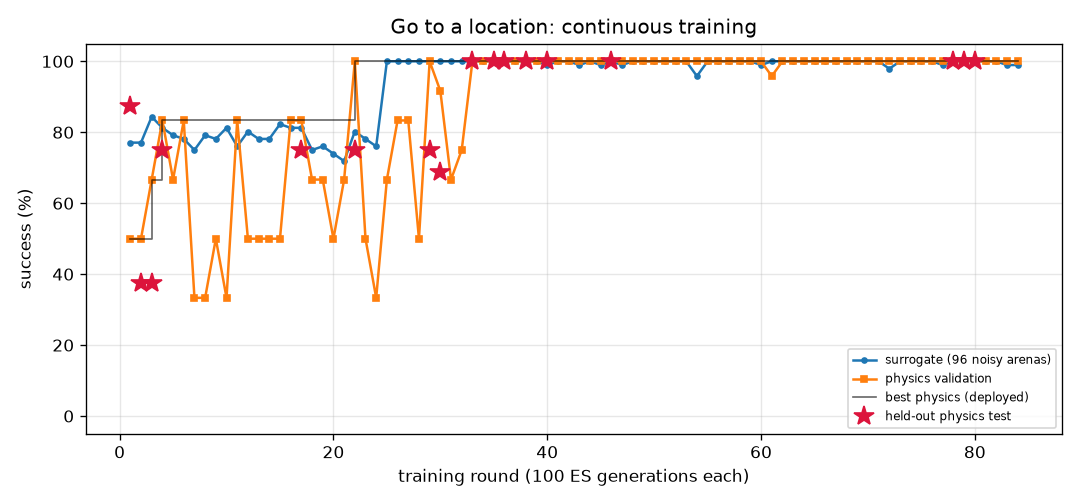
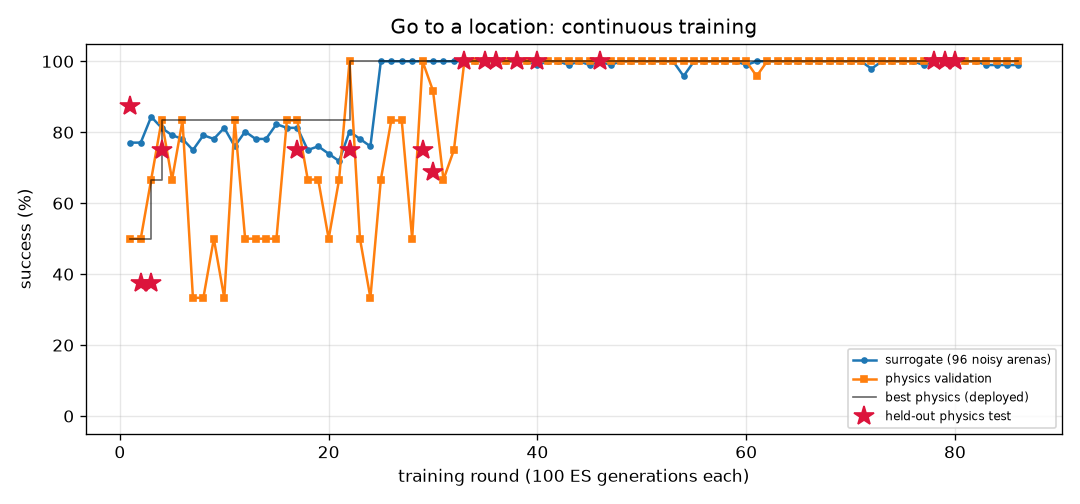
FlyLab: continuous training progress
- walk_forward: optimal, physics val 100% of 24, round 89
- turn: optimal, physics val 100% of 24, round 328
- goto: optimal, physics val 100% of 24, round 86
- odor_seek: optimal, physics val 100% of 24, round 92
- odor_avoid: optimal, physics val 100% of 24, round 417
- light_seek: optimal, physics val 100% of 24, round 275
- light_avoid: optimal, physics val 100% of 24, round 196

diff --git a/projects/09_flylab/training/light_seek/REPORT.md b/projects/09_flylab/training/light_seek/REPORT.md
@@ -1,14 +1,14 @@
 # Walk toward light (`light_seek`) — training report
 
-*Auto-generated by `train_brains.py`, last updated 2026-10-11T19:35:03.*
+*Auto-generated by `train_brains.py`, last updated 2026-10-11T20:24:31.*
 
 ![curve](curve.png)
 
 | | |
 |---|---|
-| rounds | 273 |
-| ES generations | 27300 |
-| physics runs | 3304 |
+| rounds | 275 |
+| ES generations | 27500 |
+| physics runs | 3352 |
 | status | **optimal** |
 | best brain | round 235: physics validation **100%** on 24 arenas, surrogate 100% |
 | held-out physics test | **100%** on 32 unseen arenas (95% CI 89%-100%) (errors: [0.42, 0.43, 0.43, 0.46, 0.47, 0.42, 0.43, 0.45, 0.47, 0.5, 0.42, 0.42, 0.47, 0.88, 0.89, 0.46, 0.46, 0.43, 0.45, 0.48, 0.43, 0.84, 0.43, 0.43, 0.43, 0.44, 0.44, 0.47, 0.44, 0.43, 0.44, 0.8]) |
@@ -17,8 +17,6 @@ Physics error per arena: mm from target at the end (< 1.5 and standing still = s
 
 | round | level | gens | sigma | surrogate | physics val | val errors | test | note |
 |---:|---:|---:|---:|---:|---:|---|---:|---|
-| 234 | 3 | 23400 | 0.024 | 100% | 92% | [3.34, 0.58, 0.47, 0.56, 0.52, 0.76, 0.91, 0.77, 1.07, 0.53, 0.56, 0.56, 1.38, 0.6, 1.15, 0.48, 0.48, 0.59, 0.48, 1.79, 1.05, 0.54, 1.13, 1.37] |  |  |
-| 235 | 3 | 23500 | 0.024 | 100% | 100% | [0.52, 0.45, 0.48, 0.56, 0.43, 0.45, 0.5, 0.51, 0.45, 0.47, 0.47, 0.46, 0.44, 0.43, 0.47, 0.48, 0.46, 0.45, 0.45, 0.45, 0.46, 0.42, 0.43, 0.49] | 100% | new best |
 | 236 | 3 | 23600 | 0.024 | 100% | 100% | [0.61, 0.51, 0.54, 0.53, 0.5, 0.45, 0.49, 0.5, 0.52, 0.6, 0.51, 0.59, 1.11, 0.55, 0.6, 0.46, 0.55, 0.52, 0.59, 0.46, 0.63, 0.51, 0.49, 0.53] |  |  |
 | 237 | 3 | 23700 | 0.024 | 100% | 100% | [0.49, 0.5, 0.55, 0.53, 0.46, 0.47, 0.5, 0.57, 0.47, 0.45, 0.53, 0.48, 0.5, 0.59, 0.54, 0.47, 0.49, 0.52, 0.53, 0.51, 0.46, 0.47, 0.5, 0.45] |  |  |
 | 238 | 3 | 23800 | 0.024 | 100% | 100% | [0.52, 0.53, 0.51, 0.54, 0.64, 0.51, 0.83, 0.52, 0.62, 0.54, 0.56, 0.59, 0.56, 0.57, 0.82, 0.5, 0.53, 0.49, 0.57, 0.72, 0.6, 0.62, 0.52, 0.65] |  |  |
@@ -57,3 +55,5 @@ Physics error per arena: mm from target at the end (< 1.5 and standing still = s
 | 271 | 3 | 27100 | 0.024 | 100% | 100% | [0.62, 0.44, 0.52, 0.49, 0.47, 0.45, 0.5, 0.61, 0.44, 0.48, 0.43, 0.53, 0.44, 0.55, 0.48, 0.94, 0.87, 0.57, 0.43, 0.44, 0.5, 0.52, 0.47, 0.46] |  | restart from best |
 | 272 | 3 | 27200 | 0.024 | 100% | 100% | [0.48, 0.45, 0.49, 0.5, 0.44, 0.46, 0.48, 0.47, 0.86, 0.51, 0.45, 0.45, 0.46, 0.46, 0.52, 0.49, 0.48, 0.44, 0.45, 0.44, 0.5, 0.47, 0.51, 0.5] |  |  |
 | 273 | 3 | 27300 | 0.024 | 100% | 100% | [0.64, 0.47, 0.51, 0.66, 0.52, 0.65, 0.61, 0.6, 0.6, 0.57, 0.5, 0.56, 0.52, 1.03, 0.53, 0.5, 0.46, 0.49, 0.55, 0.56, 0.52, 0.5, 0.53, 0.87] |  |  |
+| 274 | 3 | 27400 | 0.024 | 100% | 100% | [0.52, 0.46, 0.5, 0.46, 0.49, 0.59, 0.51, 0.53, 0.51, 0.49, 0.5, 0.48, 0.52, 0.52, 0.88, 0.51, 0.52, 0.48, 0.46, 0.51, 0.57, 0.47, 1.06, 0.46] |  |  |
+| 275 | 3 | 27500 | 0.024 | 100% | 96% | [0.56, 0.69, 0.6, 0.58, 0.53, 0.51, 0.5, 1.16, 1.01, 0.57, 0.52, 0.52, 0.54, 3.85, 0.6, 0.58, 0.6, 0.49, 0.55, 0.58, 0.66, 0.61, 0.74, 0.46] |  | restart from best |

diff --git a/projects/09_flylab/training/goto/REPORT.md b/projects/09_flylab/training/goto/REPORT.md
@@ -1,14 +1,14 @@
 # Go to a location (`goto`) — training report
 
-*Auto-generated by `train_brains.py`, last updated 2026-10-11T19:37:06.*
+*Auto-generated by `train_brains.py`, last updated 2026-10-11T20:37:56.*
 
 ![curve](curve.png)
 
 | | |
 |---|---|
-| rounds | 84 |
-| ES generations | 8400 |
-| physics runs | 1902 |
+| rounds | 86 |
+| ES generations | 8600 |
+| physics runs | 1950 |
 | status | **optimal** |
 | best brain | round 80: physics validation **100%** on 24 arenas, surrogate 100% |
 | held-out physics test | **100%** on 32 unseen arenas (95% CI 89%-100%) (errors: [0.36, 0.41, 0.3, 0.45, 0.32, 0.33, 0.33, 0.31, 0.35, 0.36, 0.39, 0.36, 0.28, 0.31, 0.4, 0.39, 0.34, 0.39, 0.3, 0.34, 0.36, 0.36, 0.44, 0.34, 0.3, 0.33, 0.4, 0.33, 0.29, 0.43, 0.43, 0.39]) |
@@ -17,8 +17,6 @@ Physics error per arena: mm from target at the end (< 1.5 and standing still = s
 
 | round | level | gens | sigma | surrogate | physics val | val errors | test | note |
 |---:|---:|---:|---:|---:|---:|---|---:|---|
-| 45 | 3 | 4500 | 0.025 | 99% | 100% | [0.72, 0.7, 0.59, 0.58, 0.73, 0.61, 0.74, 0.6, 0.64, 0.57, 0.64, 0.58, 0.66, 0.54, 0.51, 0.62, 0.74, 0.65, 0.57, 0.62, 0.63, 0.57, 0.68, 0.57] |  |  |
-| 46 | 3 | 4600 | 0.025 | 100% | 100% | [0.62, 0.6, 0.45, 0.49, 0.59, 0.48, 0.52, 0.48, 0.52, 0.47, 0.55, 0.47, 0.55, 0.47, 0.52, 0.52, 0.63, 0.51, 0.45, 0.53, 0.5, 0.47, 0.59, 0.48] | 100% | new best |
 | 47 | 3 | 4700 | 0.024 | 99% | 100% | [0.7, 0.67, 0.5, 0.6, 0.6, 0.58, 0.69, 0.51, 0.64, 0.49, 0.55, 0.57, 0.68, 0.46, 0.52, 0.54, 0.69, 0.6, 0.5, 0.59, 0.53, 0.48, 0.69, 0.58] |  |  |
 | 48 | 3 | 4800 | 0.025 | 100% | 100% | [0.65, 0.62, 0.48, 0.49, 0.47, 0.51, 0.64, 0.6, 0.52, 0.46, 0.45, 0.48, 0.58, 0.44, 0.49, 0.52, 0.62, 0.51, 0.46, 0.54, 0.51, 0.45, 0.6, 0.48] |  |  |
 | 49 | 3 | 4900 | 0.024 | 100% | 100% | [0.62, 0.64, 0.51, 0.54, 0.51, 0.53, 0.64, 0.54, 0.58, 0.51, 0.5, 0.52, 0.61, 0.5, 0.54, 0.58, 0.62, 0.53, 0.51, 0.57, 0.54, 0.51, 0.61, 0.52] |  |  |
@@ -57,3 +55,5 @@ Physics error per arena: mm from target at the end (< 1.5 and standing still = s
 | 82 | 3 | 8200 | 0.024 | 100% | 100% | [0.55, 0.56, 0.4, 0.47, 0.41, 0.46, 0.49, 0.49, 0.54, 0.43, 0.4, 0.46, 0.54, 0.46, 0.52, 0.48, 0.56, 0.46, 0.41, 0.5, 0.48, 0.4, 0.56, 0.48] |  |  |
 | 83 | 3 | 8300 | 0.024 | 99% | 100% | [0.4, 0.41, 0.43, 0.36, 0.29, 0.35, 0.37, 0.41, 0.38, 0.3, 0.31, 0.35, 0.41, 0.33, 0.34, 0.34, 0.41, 0.36, 0.29, 0.38, 0.34, 0.29, 0.42, 0.35] |  |  |
 | 84 | 3 | 8400 | 0.025 | 99% | 100% | [0.57, 0.47, 0.46, 0.39, 0.39, 0.38, 0.55, 0.4, 0.47, 0.4, 0.4, 0.39, 0.44, 1.0, 0.41, 0.46, 0.5, 0.5, 0.39, 0.42, 0.42, 0.4, 0.44, 0.37] |  | restart from best |
+| 85 | 3 | 8500 | 0.024 | 99% | 100% | [0.54, 0.55, 0.43, 0.54, 0.45, 0.49, 0.55, 0.48, 0.57, 0.44, 0.53, 0.51, 0.56, 0.45, 0.42, 0.51, 0.56, 0.49, 0.44, 0.58, 0.51, 0.42, 0.54, 0.53] |  |  |
+| 86 | 3 | 8600 | 0.025 | 99% | 100% | [0.51, 0.5, 0.35, 0.42, 0.35, 0.41, 0.44, 0.41, 0.5, 0.36, 0.35, 0.41, 0.51, 0.39, 0.39, 0.42, 0.53, 0.43, 0.35, 0.47, 0.4, 0.36, 0.53, 0.43] |  |  |

diff --git a/projects/09_flylab/training/TRAINING.md b/projects/09_flylab/training/TRAINING.md
@@ -1,6 +1,6 @@
 # FlyLab brains — continuous training log
 
-*Auto-generated by `train_brains.py`, last updated 2026-10-11T19:37:06.*
+*Auto-generated by `train_brains.py`, last updated 2026-10-11T20:37:56.*
 
 Every skill has its own brain and its own training process: surrogate ES rounds, physics validation in MuJoCo, keep-the-best selection, and a held-out physics test that is never used for selection. See each skill's report for its full round-by-round history. Mastery is progressive: passing a level (100% physics validation, >=95% surrogate) doubles the validation and test arena sets; a brain is **optimal** once it holds up at level 3 (>=95% of 24 validation arenas) AND scores >=90% on the 32 held-out test arenas. Test columns show 95% Wilson confidence intervals.
 
@@ -8,8 +8,8 @@ Every skill has its own brain and its own training process: surrogate ES rounds,
 |---|---:|---:|---:|---:|---:|---:|---|
 | [Walk forward](walk_forward/REPORT.md) | 89 | 8900 | 2086 | 100% | 100% of 24 | 100% of 32 (CI 89-100%) | **optimal** |
 | [Turn in place](turn/REPORT.md) | 328 | 32800 | 8118 | 100% | 100% of 24 | 97% of 32 (CI 84-99%) | **optimal** |
-| [Go to a location](goto/REPORT.md) | 84 | 8400 | 1902 | 100% | 100% of 24 | 100% of 32 (CI 89-100%) | **optimal** |
+| [Go to a location](goto/REPORT.md) | 86 | 8600 | 1950 | 100% | 100% of 24 | 100% of 32 (CI 89-100%) | **optimal** |
 | [Find food by smell](odor_seek/REPORT.md) | 92 | 9200 | 1510 | 100% | 100% of 24 | 100% of 32 (CI 89-100%) | **optimal** |
 | [Escape a bad smell](odor_avoid/REPORT.md) | 417 | 41700 | 7314 | 97% | 100% of 24 | 97% of 32 (CI 84-99%) | **optimal** |
-| [Walk toward light](light_seek/REPORT.md) | 273 | 27300 | 3304 | 100% | 100% of 24 | 100% of 32 (CI 89-100%) | **optimal** |
+| [Walk toward light](light_seek/REPORT.md) | 275 | 27500 | 3352 | 100% | 100% of 24 | 100% of 32 (CI 89-100%) | **optimal** |
 | [Hide from light](light_avoid/REPORT.md) | 196 | 19600 | 4976 | 100% | 100% of 24 | 100% of 32 (CI 89-100%) | **optimal** |
